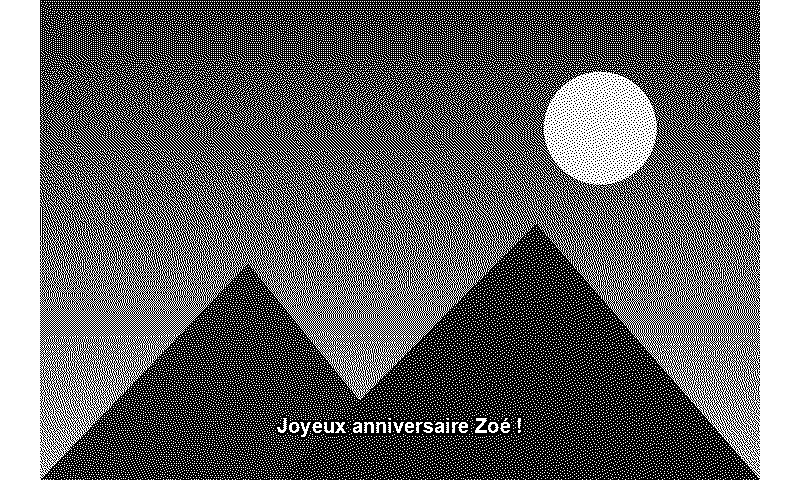
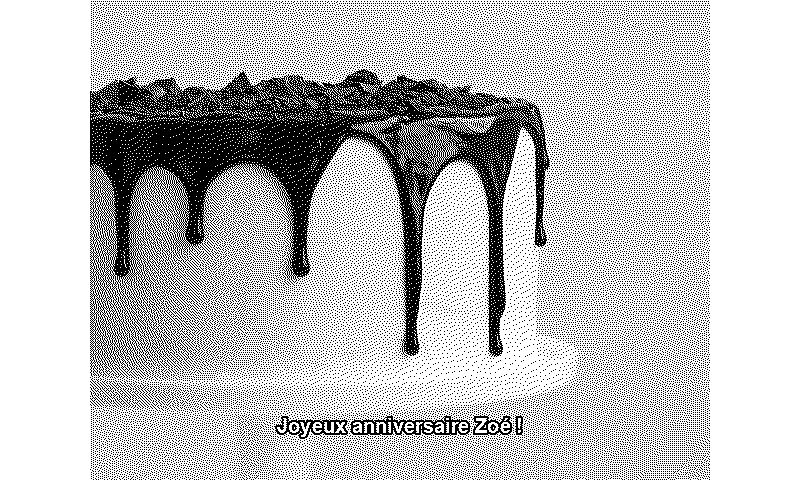
docs: captures du README faites avec une vraie photo (Unsplash)
La photo n'est pas dans le dépôt : seules les captures qui en dérivent le sont, avec le crédit.

diff --git a/slowmovie_inkdrop/relay/static/index.html b/slowmovie_inkdrop/relay/static/index.html
@@ -437,7 +437,7 @@ function sentCard() {
   return el("div", { className: "card nowcard" },
     el("img", { src: card.thumbnail, alt: "L'image envoyée en cours d'affichage" }),
     el("div", { className: "grow" }, el("strong", { text: d.caption || "Image envoyée" }),
-      el("div", { className: "hint", text: `Image envoyée, affichée il y a ${duration(card.age_seconds)} · le défilement reprendra ensuite` })));
+      el("div", { className: "hint", text: `Image envoyée, affichée ${card.age_seconds < 5 ? "à l'instant" : "il y a " + duration(card.age_seconds)} · le défilement reprendra ensuite` })));
 }
 /* Ce que le Pi présente : l'image envoyée si c'est elle qui est à l'écran, sinon le film ou le dessin / la photo du mode actif. */
 function nowCard(source, state) {

diff --git a/README.md b/README.md
@@ -34,17 +34,18 @@ Raspberry Pi) avec quatre apports :
 
 ## Aperçu
 
-*Captures réalisées avec des données de démonstration (films libres de droits, aucun identifiant réel).*
+*Captures réalisées avec des données de démonstration (films libres de droits, photo Unsplash, aucun identifiant réel).*
 
 ### Sur la passerelle, depuis un téléphone
 
 <table>
   <tr>
-    <td align="center" width="20%"><img src="docs/images/web-connexion.png" alt="Écran de connexion : mot de passe, afficher, se souvenir de moi" width="180"><br><sub>Connexion unique, mot de passe affichable</sub></td>
-    <td align="center" width="20%"><img src="docs/images/web-mode.png" alt="Onglet Mode : le π-piquant en cours avec sa miniature, le rythme et le titre" width="180"><br><sub>Mode actif : miniature du π-piquant en cours, rythme</sub></td>
-    <td align="center" width="20%"><img src="docs/images/web-envoyer.png" alt="Onglet Envoyer : durée en pastilles, tirer un π-piquant" width="180"><br><sub>Envoyer une image ou un π-piquant (durée en pastilles)</sub></td>
-    <td align="center" width="20%"><img src="docs/images/web-reglages.png" alt="Fenêtre des réglages de SlowMovie : film en cours, films, réglages" width="180"><br><sub>⚙ SlowMovie : film en cours, départ et fin, réglages</sub></td>
-    <td align="center" width="20%"><img src="docs/images/web-photos.png" alt="Fenêtre des réglages d'un mode inactif : réglages en attente d'activation" width="180"><br><sub>⚙ d'un mode inactif : réglages envoyés à l'activation</sub></td>
+    <td align="center" width="16%"><img src="docs/images/web-connexion.png" alt="Écran de connexion : mot de passe, afficher, se souvenir de moi" width="150"><br><sub>Connexion unique, mot de passe affichable</sub></td>
+    <td align="center" width="16%"><img src="docs/images/web-mode.png" alt="Onglet Mode : le π-piquant en cours avec sa miniature, le rythme et le titre" width="150"><br><sub>Mode actif : miniature du π-piquant en cours, rythme</sub></td>
+    <td align="center" width="16%"><img src="docs/images/web-envoyer.png" alt="Onglet Envoyer : une photo choisie avec son texte et sa durée en pastilles" width="150"><br><sub>Envoyer une photo avec un texte et une durée</sub></td>
+    <td align="center" width="16%"><img src="docs/images/web-image.png" alt="Onglet Mode : l'image envoyée est à l'écran du Pi" width="150"><br><sub>L'image envoyée est à l'écran : le défilement reprendra ensuite</sub></td>
+    <td align="center" width="16%"><img src="docs/images/web-reglages.png" alt="Fenêtre des réglages de SlowMovie : film en cours, films, réglages" width="150"><br><sub>⚙ SlowMovie : film en cours, départ et fin, réglages</sub></td>
+    <td align="center" width="16%"><img src="docs/images/web-photos.png" alt="Fenêtre des réglages d'un mode inactif : réglages en attente d'activation" width="150"><br><sub>⚙ d'un mode inactif : réglages envoyés à l'activation</sub></td>
   </tr>
 </table>
 
@@ -63,8 +64,9 @@ Raspberry Pi) avec quatre apports :
 
 ### Sur l'écran e-paper
 
-Une image envoyée avec son texte, centré en bas, et un π-piquant avec sa légende (rendu tramé en 1 bit, comme l'écran).
-La marge sous le texte tient compte d'un cadre qui masque le bas de l'écran :
+Une photo envoyée avec son texte, centré en bas, et un π-piquant avec sa légende (rendu tramé en 1 bit, comme l'écran).
+La marge sous le texte tient compte d'un cadre qui masque le bas de l'écran. Photo de démonstration :
+[American Heritage Chocolate](https://unsplash.com/photos/vdx5hPQhXFk) sur Unsplash.
 
 <img src="docs/images/ecran-texte.png" alt="Image envoyée avec un texte sous l'image, rendue en noir et blanc" width="360">
 <img src="docs/images/ecran-pipiquant.png" alt="Un π-piquant avec sa légende, rendu en noir et blanc" width="360">
